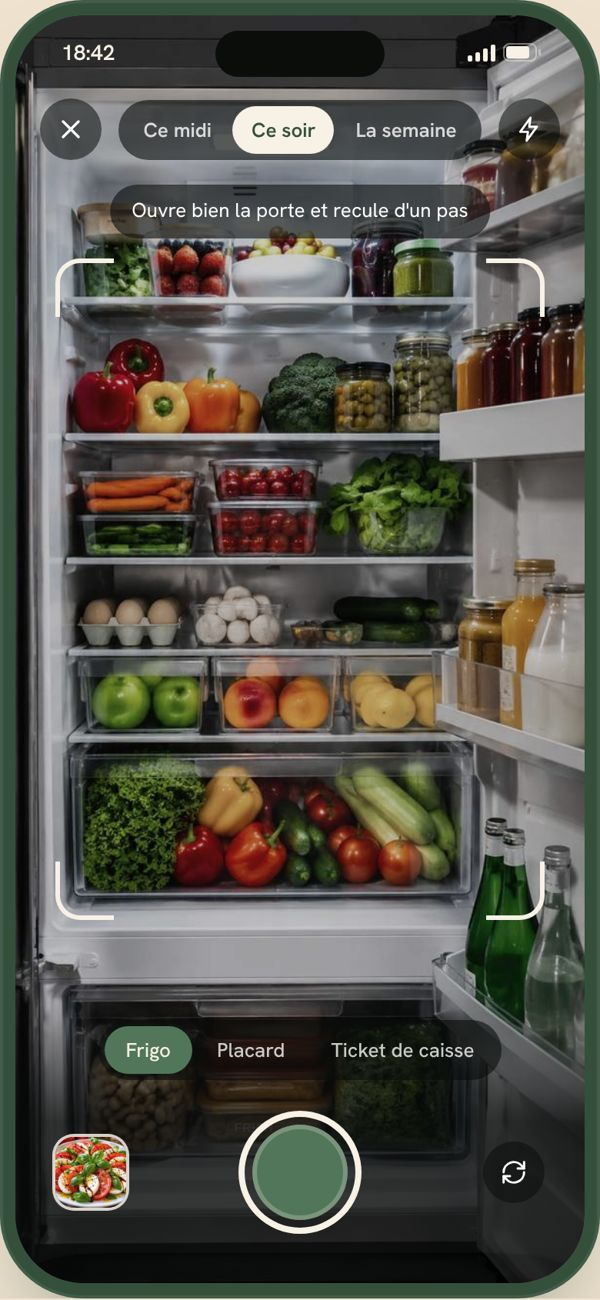
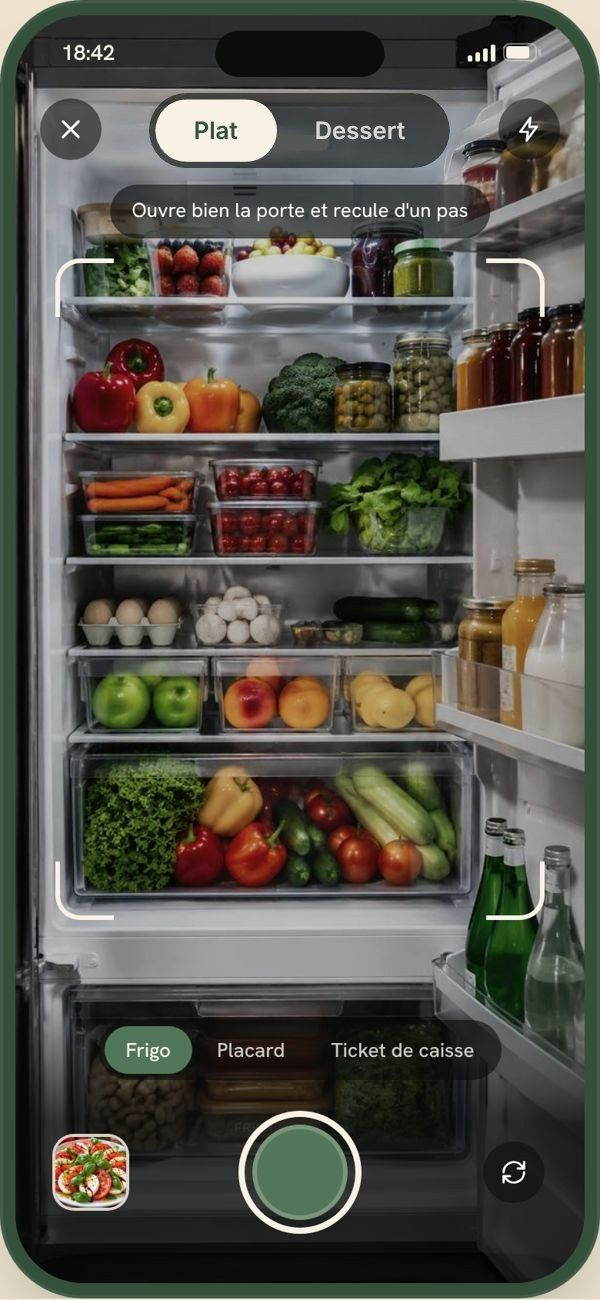
Site : « Pour un plat ou un dessert » au lieu de midi, soir, semaine
- Étape 1 du site et texte pour les IA (llms.txt) mis à jour.
- Capture du scan : le choix « Plat · Dessert » remplace « Ce midi ·
  Ce soir · La semaine ».

Claude-Session: https://claude.ai/code/session_018X1Q3dGeTet7ZYQfsrtvZW

Changed region(s): [[0.18, 0.0615, 0.81, 0.1538], [0.09, 0.8923, 0.12, 0.9231]]

diff --git a/src/Landing.tsx b/src/Landing.tsx
@@ -67,7 +67,7 @@ function HeroArt() {
 
 // ── Comment ça marche : 3 cartes avec les vrais écrans de l'appli ────────────
 const STEPS = [
-  { n: "Un.", img: "app-scan", alt: "L'écran de scan : le frigo dans le viseur, avec le choix ce midi, ce soir ou la semaine", t: "Tu prends ton frigo en photo.", p: "Pour ce midi, ce soir ou la semaine. Une photo de ta galerie marche aussi, pas besoin de ranger avant." },
+  { n: "Un.", img: "app-scan", alt: "L'écran de scan : le frigo dans le viseur, avec le choix plat ou dessert", t: "Tu prends ton frigo en photo.", p: "Pour un plat ou un dessert. Une photo de ta galerie marche aussi, pas besoin de ranger avant." },
   { n: "Deux.", img: "app-ingr", alt: "L'écran « C'est bien ça ? » : 8 ingrédients trouvés, puis qui mange ce soir avec Camille, Thomas, Léo et Jade", t: "Tu vérifies, tu dis qui mange.", p: "Frigia liste ce qu'il a vu, avec les quantités. Tu corriges d'un geste et tu choisis qui est à table, allergies comprises." },
   { n: "Trois.", img: "app-results", alt: "L'écran « Trois idées pour ce soir » avec des penne aux légumes rôtis", t: "Tu choisis parmi trois recettes.", p: "Avec ce que tu as déjà, en commençant par ce qui se périme. Le mode cuisine te guide pas à pas." },
 ];
